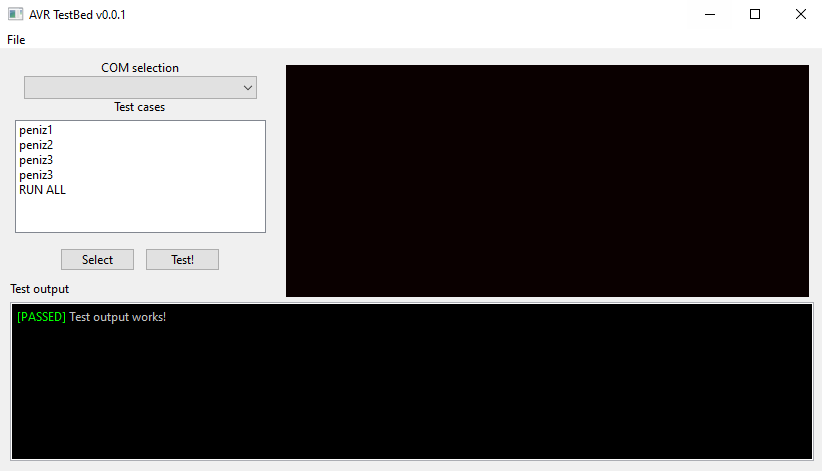
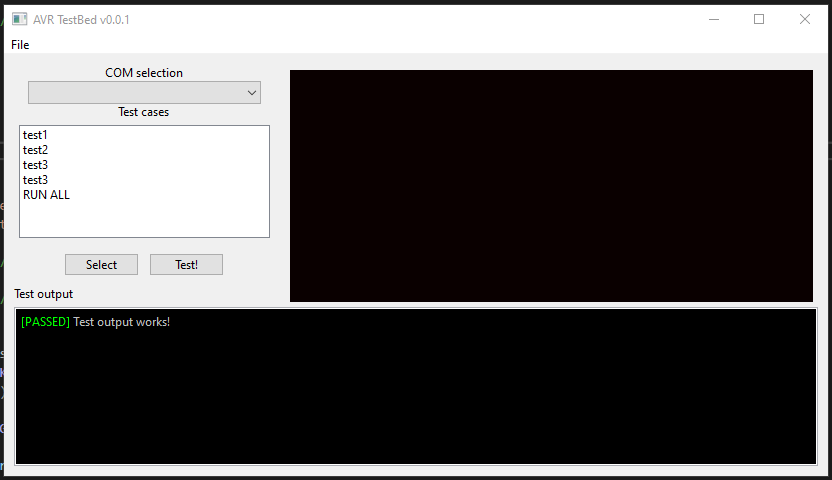
QuickFix :)

diff --git a/PC/TestBedGUI/GUI/MainWindow.cpp b/PC/TestBedGUI/GUI/MainWindow.cpp
@@ -49,10 +49,10 @@ MainWindow::MainWindow() : wxFrame(
 
 	wxStaticText* tcLabel = new wxStaticText(background, wxID_ANY, "Test cases");
 	tcList = new wxListBox(background, ID_TC_LIST);
-	tcList->Append("peniz1");
-	tcList->Append("peniz2");
-	tcList->Append("peniz3");
-	tcList->Append("peniz3");
+	tcList->Append("test1");
+	tcList->Append("test2");
+	tcList->Append("test3");
+	tcList->Append("test3");
 	tcList->Append("RUN ALL");
 
 	selectButton = new wxButton(background, wxID_ANY, "Select");
